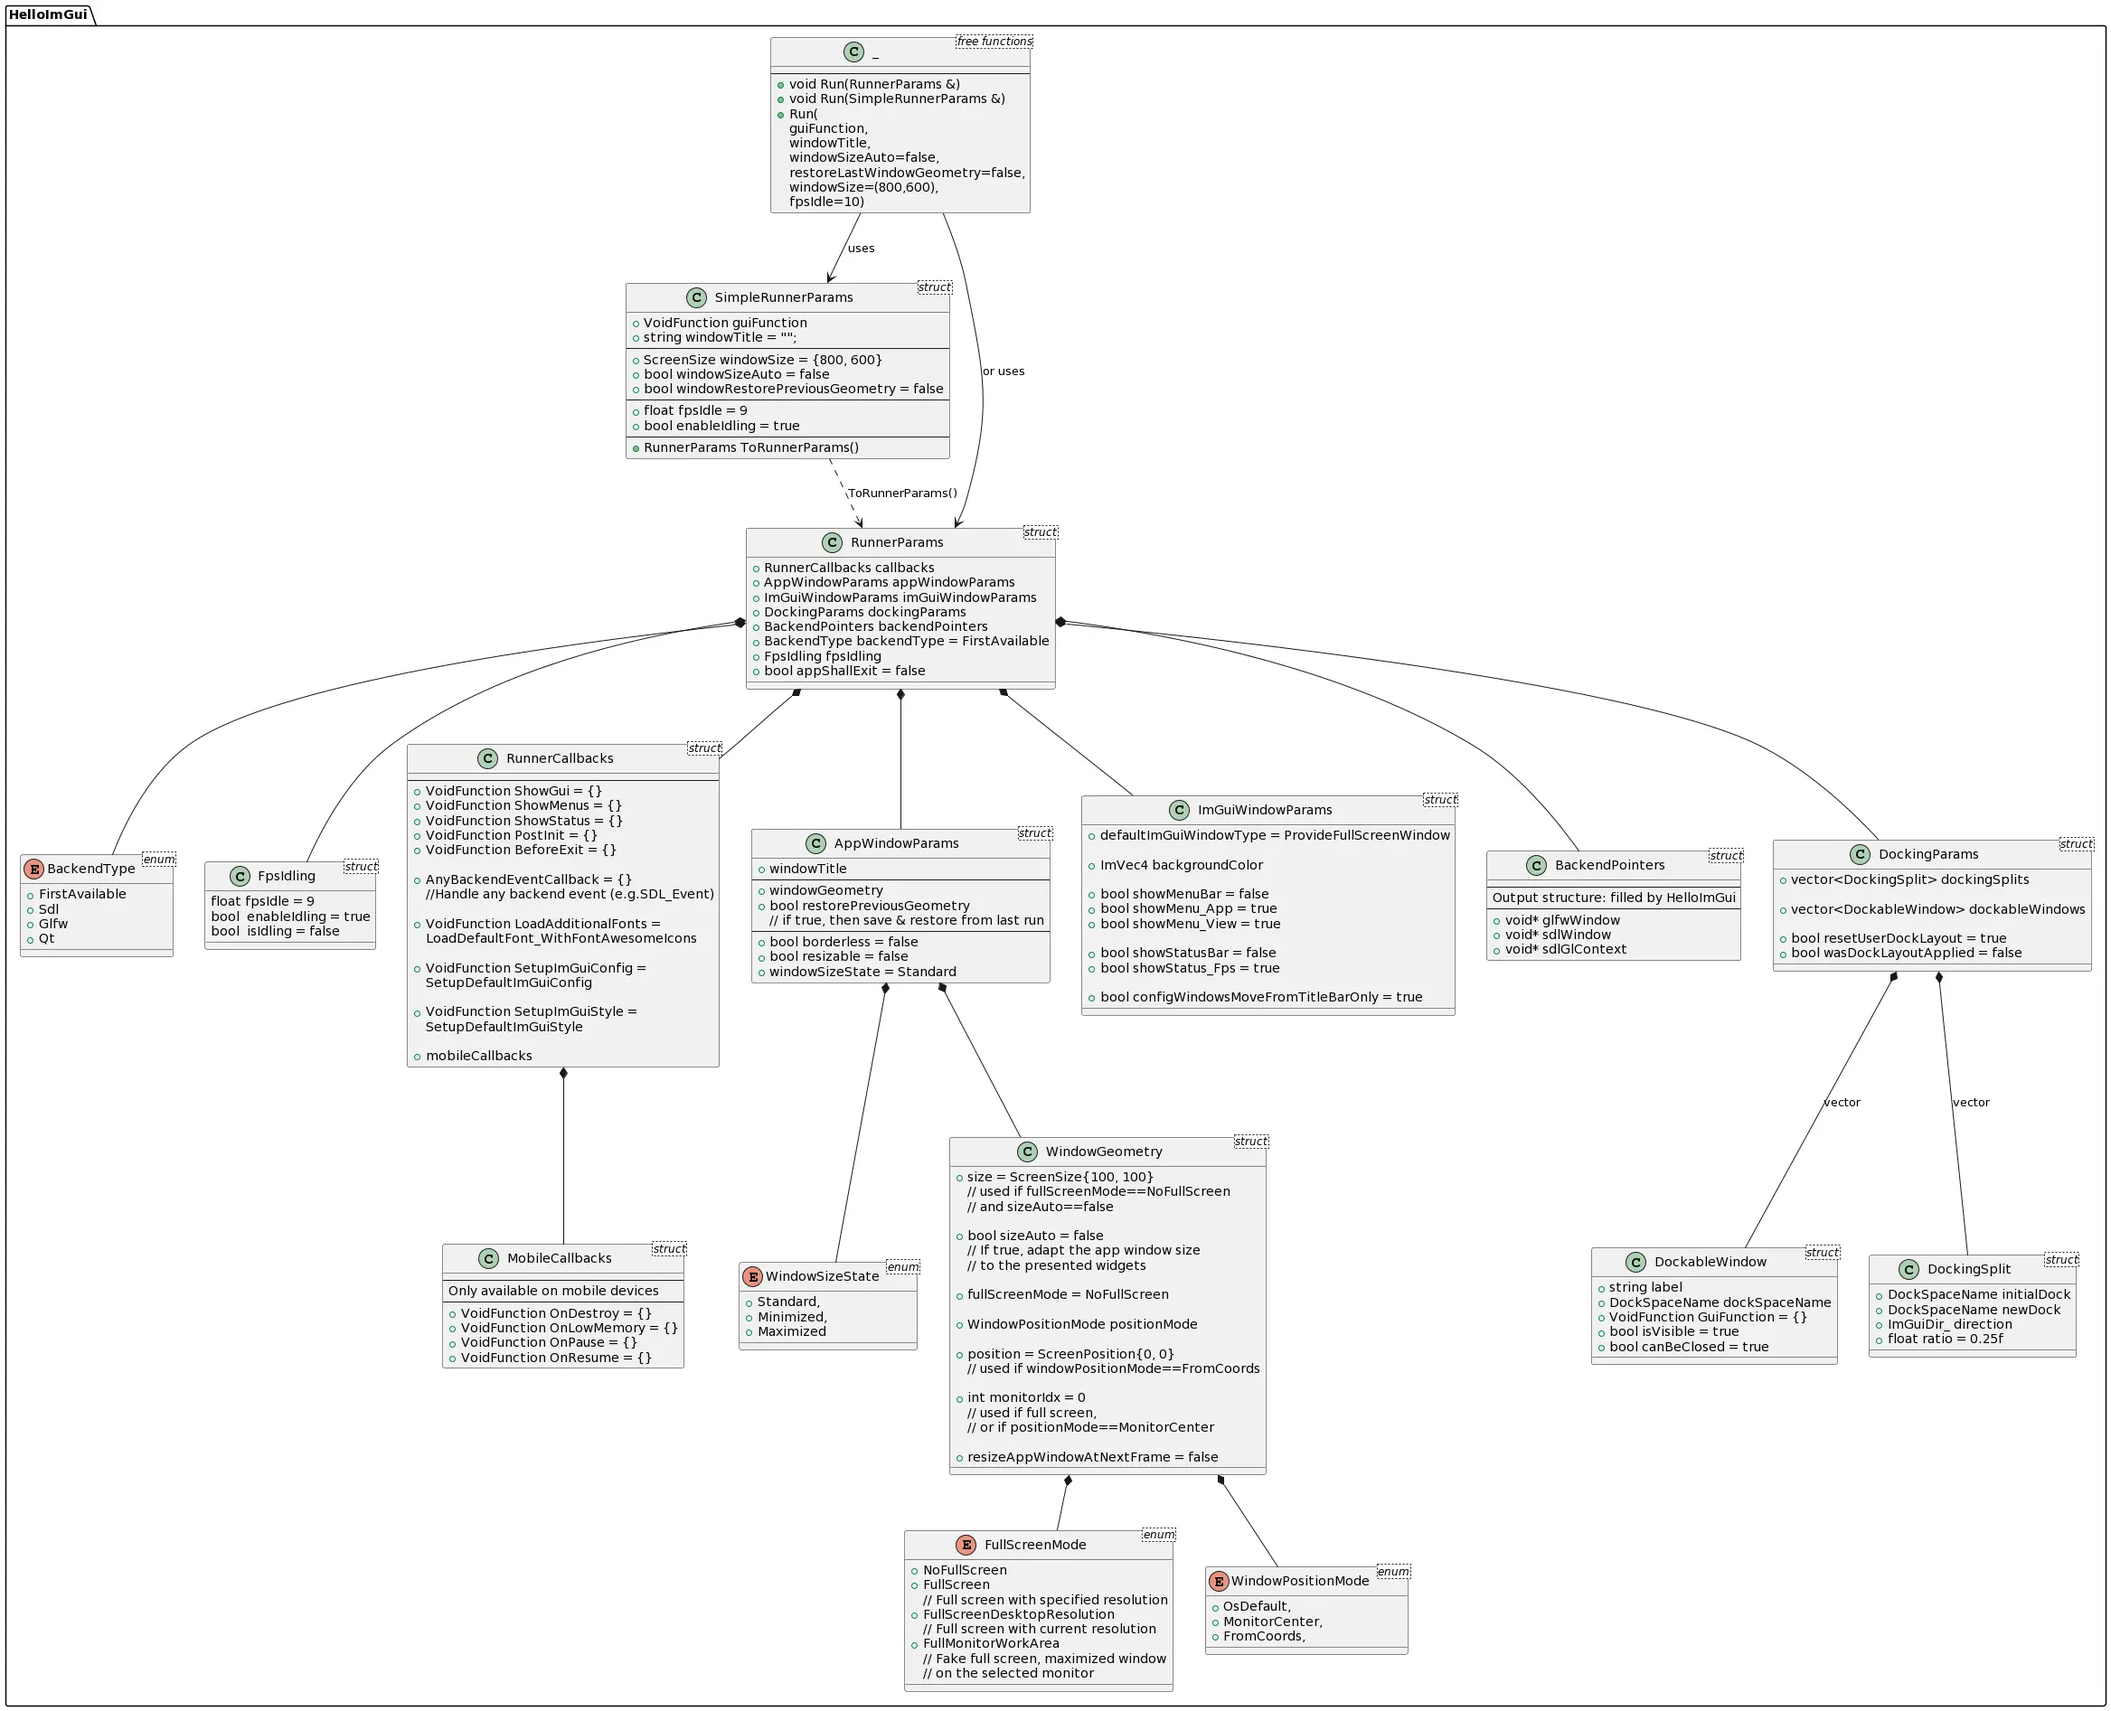
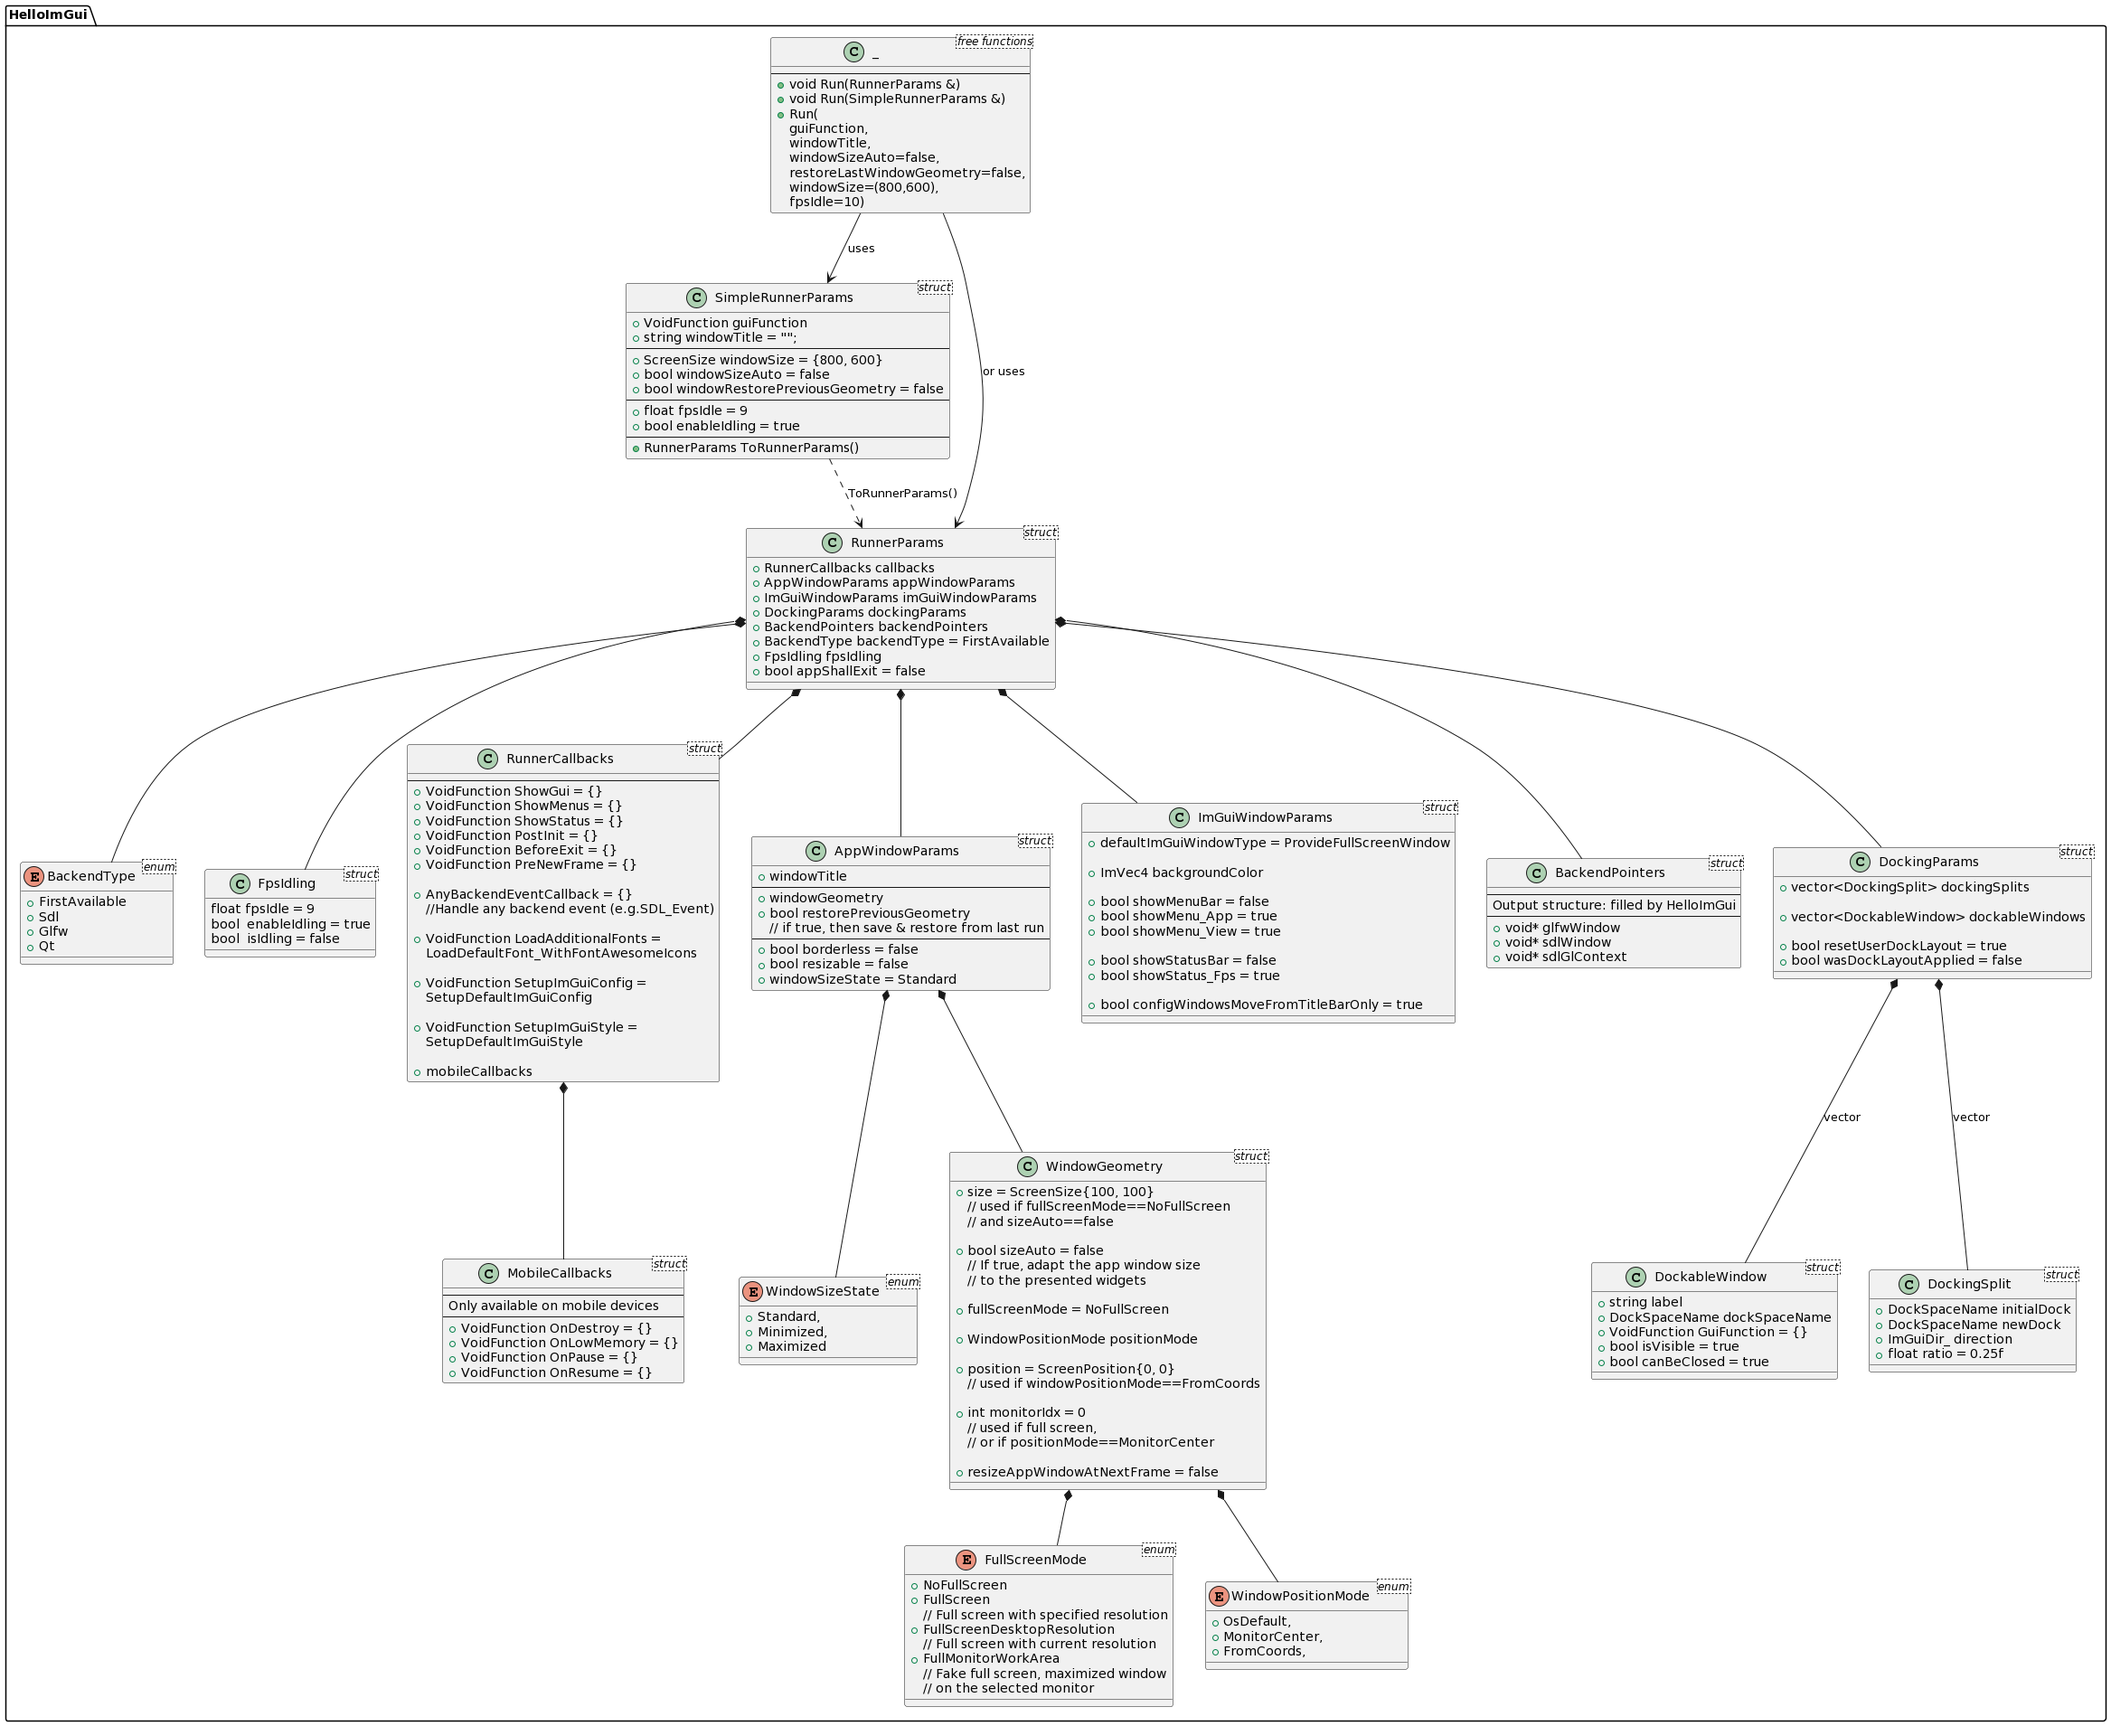
Add callback PreNewFrame

diff --git a/src/hello_imgui/runner_callbacks.h b/src/hello_imgui/runner_callbacks.h
@@ -93,6 +93,9 @@ struct MobileCallbacks
     You can here add a function that will be called once before exiting (when OpenGL and ImGui are
     still inited)
 
+ * `PreNewFrame`: *VoidFunction, default=empty*.
+    You can here add a function that will be called at each frame, and before the call to ImGui::NewFrame().
+
 * `AnyBackendEventCallback`: *AnyBackendCallback, default=empty*.
   Callbacks for events from a specific backend. _Only implemented for SDL, where the event
   will be of type 'SDL_Event *'_
@@ -125,6 +128,7 @@ struct RunnerCallbacks
     VoidFunction ShowStatus = EmptyVoidFunction();
     VoidFunction PostInit = EmptyVoidFunction();
     VoidFunction BeforeExit = EmptyVoidFunction();
+    VoidFunction PreNewFrame = EmptyVoidFunction();
 
     AnyEventCallback AnyBackendEventCallback = EmptyEventCallback();
 

diff --git a/src/hello_imgui/internal/backend_impls/abstract_runner.cpp b/src/hello_imgui/internal/backend_impls/abstract_runner.cpp
@@ -382,6 +382,10 @@ void AbstractRunner::CreateFramesAndRender()
         if (io.DeltaTime <= 0.f)
             io.DeltaTime = 1.f / 60.f;
     }
+
+    if (params.callbacks.PreNewFrame)
+        params.callbacks.PreNewFrame();
+
     ImGui::NewFrame();
 
     // Fight against potential font loading issue

diff --git a/src/hello_imgui/hello_imgui_api.md b/src/hello_imgui/hello_imgui_api.md
@@ -182,6 +182,9 @@ See [runner_callbacks.h](runner_callbacks.h).
     You can here add a function that will be called once before exiting (when OpenGL and ImGui are
     still inited)
 
+ * `PreNewFrame`: *VoidFunction, default=empty*.
+    You can here add a function that will be called at each frame, and before the call to ImGui::NewFrame().
+
 * `AnyBackendEventCallback`: *AnyBackendCallback, default=empty*.
   Callbacks for events from a specific backend. _Only implemented for SDL, where the event
   will be of type 'SDL_Event *'_
